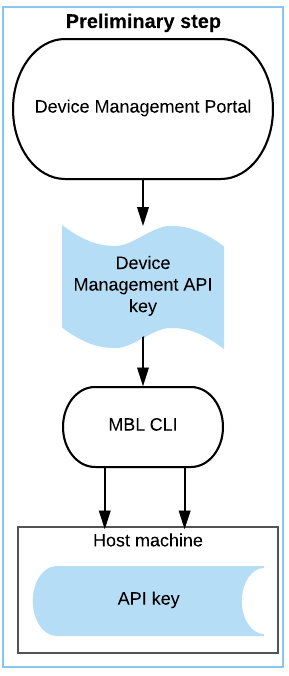
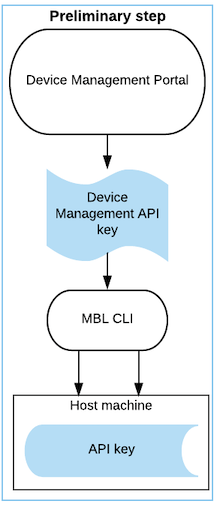
Reducing image sizes

diff --git a/Docs/install_mbl_on_device/provision/provision_intro.md b/Docs/install_mbl_on_device/provision/provision_intro.md
@@ -36,6 +36,7 @@ The full provisioning process is:
 
     1. Program the developer certificate and authenticity certificate to the device.
 
-<span class="images">![](https://s3-us-west-2.amazonaws.com/mbed-linux-os-docs-images/provision_key.png)<span>As a preliminary step, create an API key on the Device Management Portal and used MBL CLI to save it to the device.</span></span>
 
-<span class="images">![](https://s3-us-west-2.amazonaws.com/mbed-linux-os-docs-images/provision_process.png)<span>As a preliminary step, create an update authenticity certificate with the manifest tool. Then use MBL CLI to create a developer certificate and program both the update authenticity and developer certificates on the device.</span></span>
+<span class="images">![](../../Figures/provision_key.png)<span>As a preliminary step, create an API key on the Device Management Portal and used MBL CLI to save it to the device.</span></span>
+
+<span class="images">![](../../Figures/provision_process.png)<span>As a preliminary step, create an update authenticity certificate with the manifest tool. Then use MBL CLI to create a developer certificate and program both the update authenticity and developer certificates on the device.</span></span>
